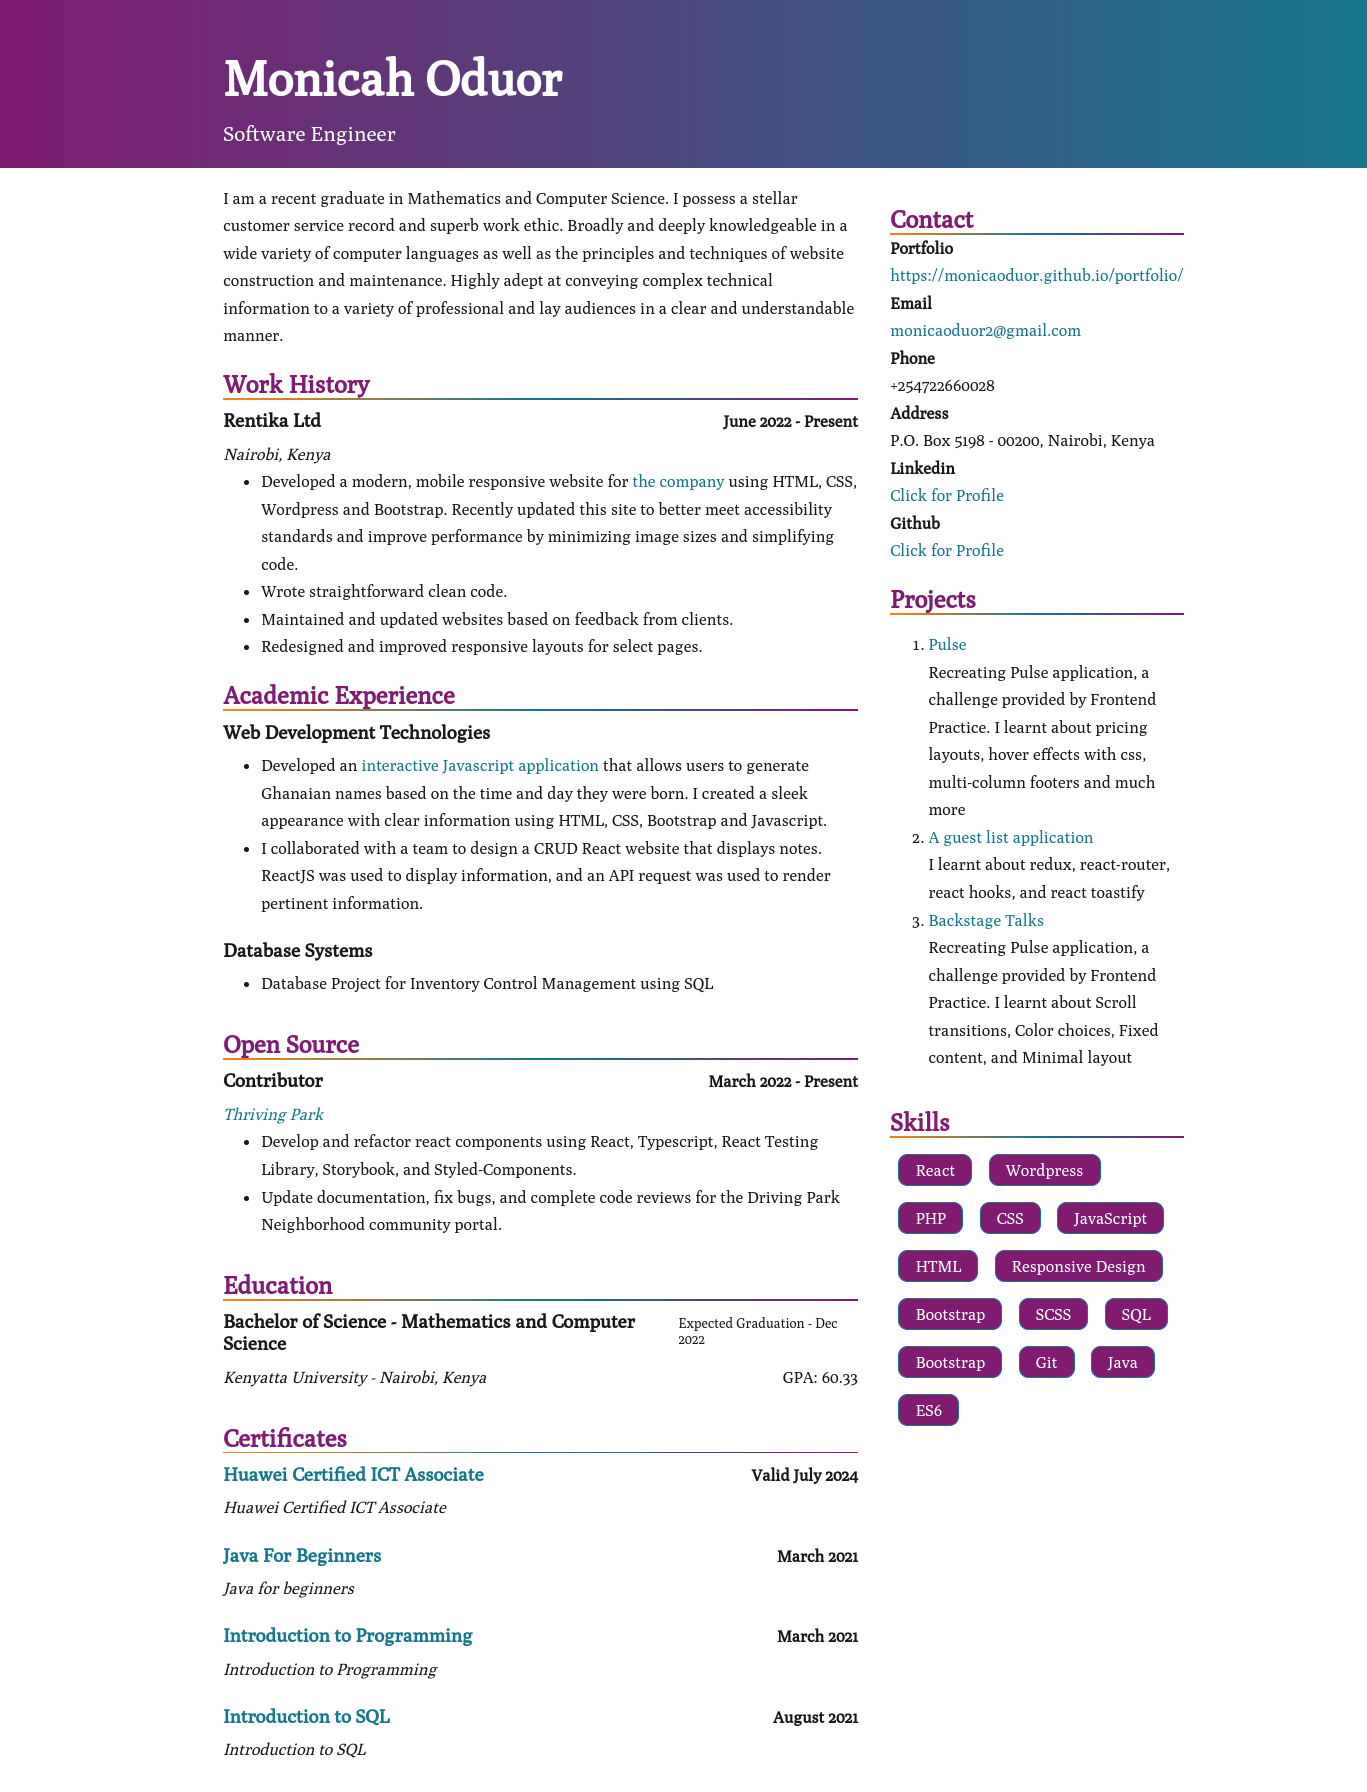
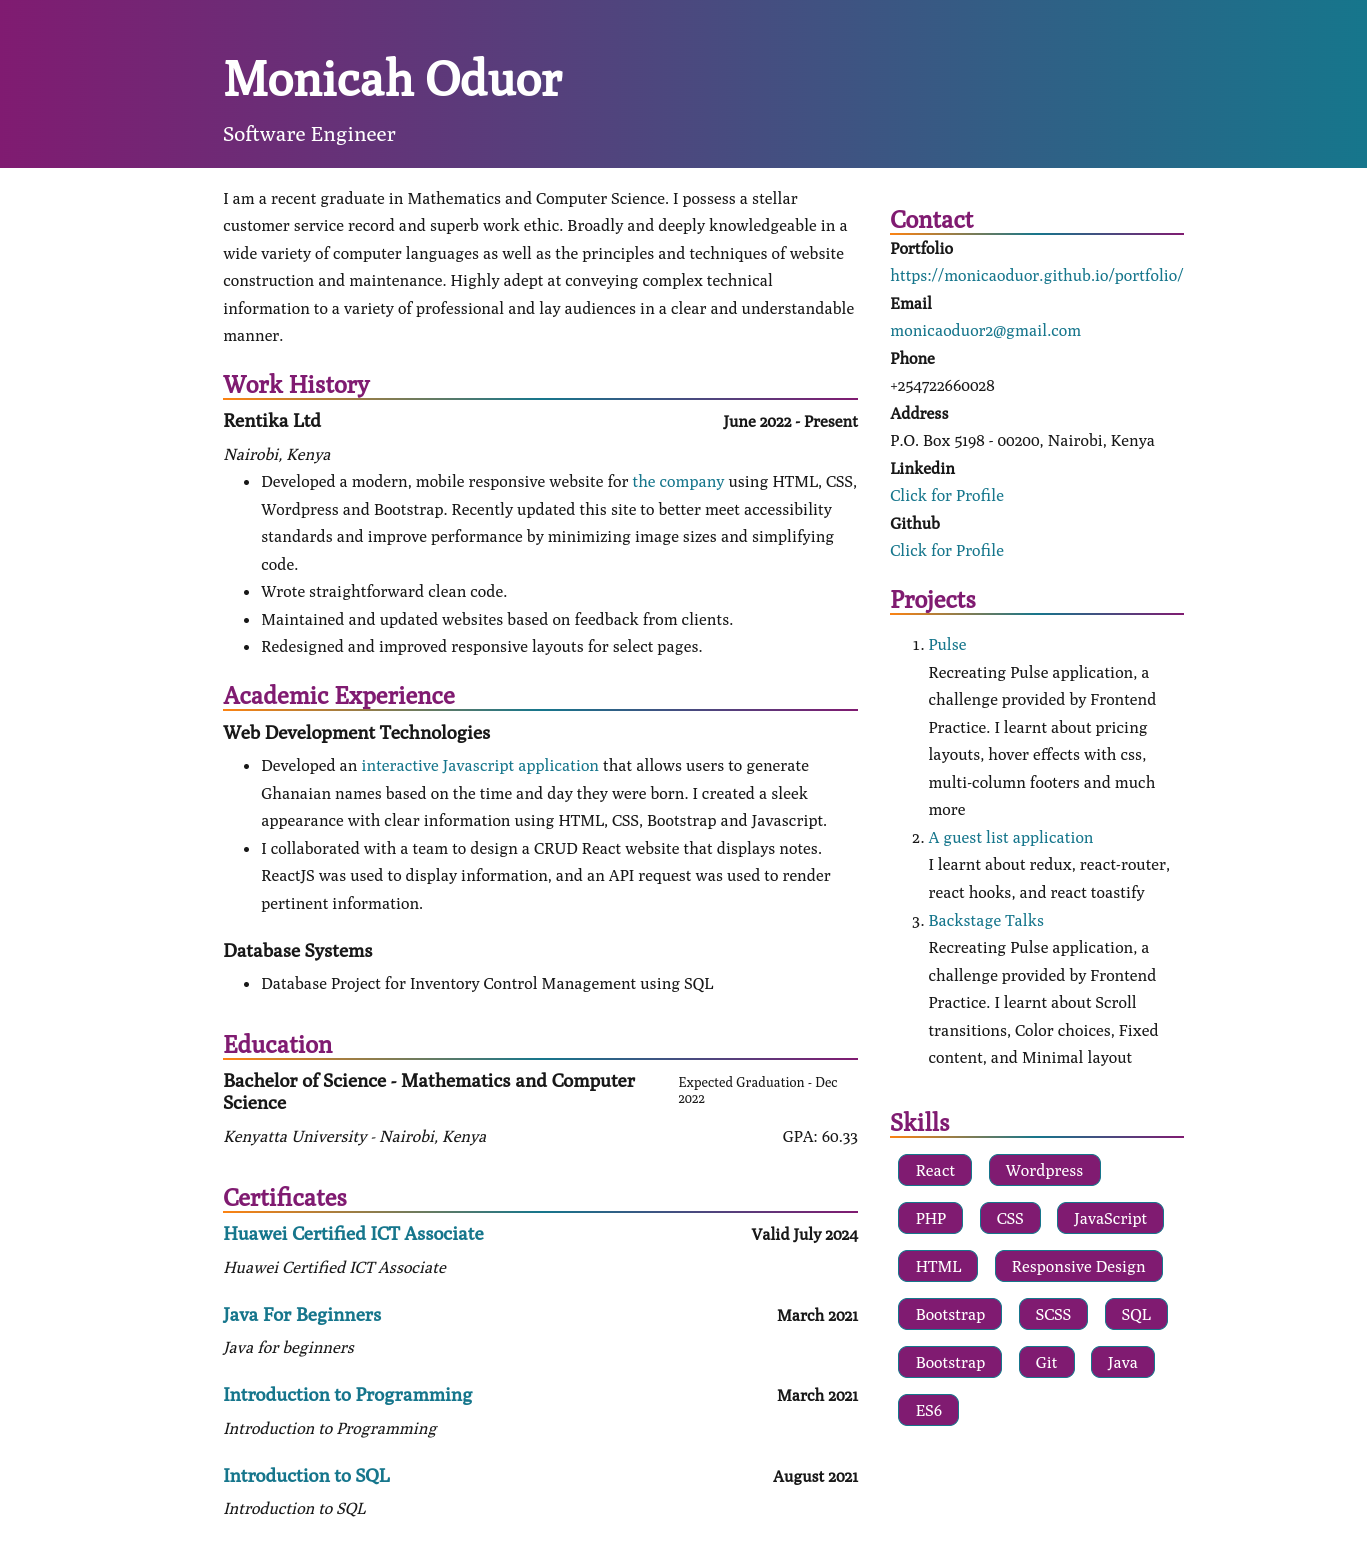
Small bug fix

diff --git a/src/components/main-container/OpenSource.js b/src/components/main-container/OpenSource.js
@@ -3,7 +3,7 @@ import React from 'react'
 export default function OpenSource() {
   return (
     <section>
-      <h2 className="accent-gradient">Open Source</h2>
+      {/* <h2 className="accent-gradient">Open Source</h2>
       <div className="card">
         <div className="card-main">
           <h3>Contributor</h3>
@@ -11,9 +11,7 @@ export default function OpenSource() {
         </div>
         <p>
           <em>
-            <a href="https://github.com/wijohnst/thriving-park">
-              Thriving Park
-            </a>{' '}
+            
           </em>
         </p>
         <ul>
@@ -26,7 +24,7 @@ export default function OpenSource() {
             Driving Park Neighborhood community portal.
           </li>
         </ul>
-      </div>
+      </div> */}
     </section>
   )
 }

diff --git a/README.md b/README.md
@@ -7,7 +7,7 @@ View live [here](https://monicaoduor.github.io/portfolio).
 ## Displays
 ### Desktop
 
-![Desktop display](./src/images/desktop-display.png)
+![Desktop display](./src/images/desktop-display.jpg)
 Example of the resume shown on a destop display, with the contact and skills sections placed to the right side.
 
 ### Mobile
